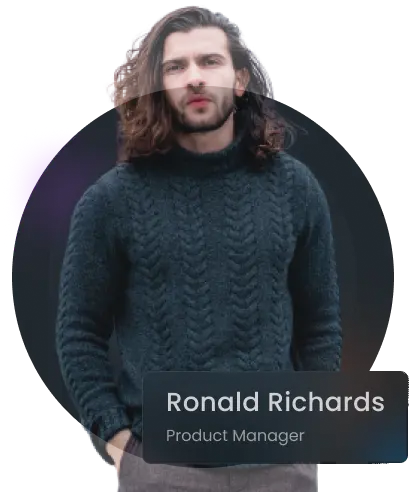
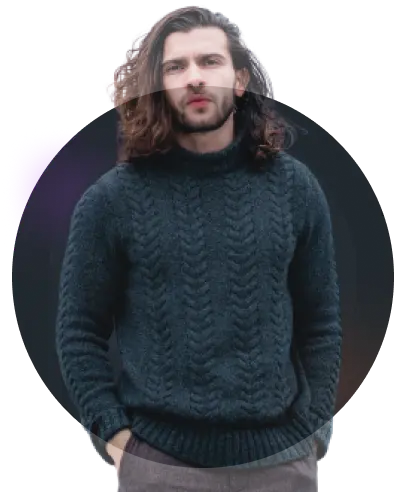
dshljsdkhfkjo

Changed region(s): [[0.3495, 0.7317, 1.0, 0.9451], [0.3495, 0.8841, 0.4078, 0.9451]]

diff --git a/index.html b/index.html
@@ -34,16 +34,18 @@
         </div>
         <div>
             <h1>Awesome tools for <br>Designer & Developer.</h1>
-            <p>Antool is a web collection of information on paid or <br> free Design and Development tools</p>
+            <p class="antool">Antool is a web collection of information on paid or <br> free Design and Development tools</p>
         </div>
         <div class="search">
             <form class="search-container">
                 <img src="./src/images/search.png" alt="search">
-                <input class="input-search" type="text" name="search" id="" placeholder="find more than 430+ tools..."
-                    autocomplete="off">
+                <input class="input-search" type="text" name="search" id="" placeholder="find more than 430+ tools..." autocomplete="off">
                 <button class="button-search">Search</button>
             </form>
         </div>
+            <div class="fon">
+                <img src="./src/images/background.webp" alt="background">
+            </div>
         <ul class="messenger">
             <li><a href="#"><img src="./src/images/group1.webp" alt="group1" width="58px"></a></li>
             <li><a href="#"><img src="./src/images/group2.webp" alt="group2" width="58px"></a></li>
@@ -151,7 +153,7 @@
                 <button class="explore-more">Explore more</button>
             </div>
             <div class="newcomer-container">
-                <div class=".newcomer-cards">
+                <div class="newcomer-cards">
                     <div class="card">
                         <img src="./src/images/zeplin.webp" alt="invision">
                         <h3>Zeplin</h3>
@@ -196,20 +198,31 @@
                             <a href="#" class="visit-button">Visit</a>
                         </div>
                     </div>
-                    <div class="person">
-                        <img src="./src/images/men.webp" alt="men">
-                        <span>Incididunt cillum do sint sint enim ullamco id deserunt mollit <br> qui reprehenderit do.
-                            Velit ex tempor
-                            cillum ad sint occaecat. <br> Do nulla velit labore occaecat do deserunt Lorem magna <br>
-                            officia
-                            incididunt consectetur amet. Sunt consectetur veniam <br> minim ex commodo sint non.
-                            Occaecat aute
-                            officia excepteur <br> non laboris id qui ad.</span>
-                    </div>
+                        <div class="person">
+                          <div class="person-photo">
+                            <img src="./src/images/men.webp" alt="men">
+                          </div>
+                          <div class="person-text">
+                            <p>
+                              Incididunt cillum do sint sint enim ullamco id deserunt mollit <br> qui reprehenderit do.
+                              Velit ex tempor cillum ad sint occaecat. <br> Do nulla velit labore occaecat do deserunt
+                              Lorem magna <br> officia incididunt consectetur amet. Sunt consectetur veniam <br> minim ex
+                              commodo sint non. Occaecat aute officia excepteur <br> non laboris id qui ad.
+                            </p>
+                          </div>
+                        </div>
+                        <img src="./src/images/line.webp" alt="line">
                     <div class="login">
-                        <h1>Become a contributor?</h1>
-                        <p>Join us and get tips & tricks to become a great Designer and Developer</p>
-                        <input type="text" name="" id="">
+                        <div>
+                            <h1 class="become">Become a contributor?</h1>
+                        </div>
+                        <div>
+                            <p class="join">Join us and get tips & tricks to become a great <br> Designer and Developer</p>
+                        </div>
+                        <form class="join-container">
+                            <input class="enter" name="Join Us" id="" placeholder="Enter your email..." autocomplete="off">
+                            <button class="join-us">Join Us</button>
+                        </form>
                     </div>
                 </div>
             </div>

diff --git a/style.css b/style.css
@@ -82,6 +82,12 @@ body {
   cursor: pointer;
 }
 
+.fon {
+  display: flex;
+  justify-content: end;
+
+}
+
 
 .explore-more:hover {
   background: #ff814c;
@@ -136,6 +142,9 @@ body {
 .tools {
   display: flex;
   justify-content: center;
+  text-align: center;
+  color: #FFFFFF8C;
+  line-height: 30px;
 }
 
 header {
@@ -326,5 +335,98 @@ footer {
 .newcomer-cards {
   display: grid;
   grid-template-columns: repeat(2, 1fr);
-  gap: 1.5rem;
+  gap: 20px;
 }
+
+.person {
+  display: flex;
+  justify-content: center;
+  align-items: center;
+  border-radius: 20px;
+  padding: 40px;
+  gap: 50px;
+  margin-top: 50px;
+  color: #fff;
+  position: relative;
+  width:849px;
+}
+
+.person-photo {
+  display: flex;
+  flex-direction: column;
+  align-items: center;
+  max-width: 300px;
+}
+
+.person-photo img {
+  width: 399px;
+  border-radius: 16px;
+}
+
+.person-text {
+ color:#FFFFFFC7 ;
+ font-weight: 400;
+ font-size: 14px;
+ line-height: 30px;
+}
+
+.become {
+  display: flex;
+  justify-content: center;
+}
+
+.join {
+  display:flex ;
+  justify-content: center;
+  color:#FFFFFF8C ;
+  line-height: 30px;
+  text-align: center;
+
+}
+
+.antool {
+  color: #FFFFFF8C;
+  line-height: 30px;
+}
+
+.join-container {
+  display: flex;
+  justify-content: center;
+  align-items: center;
+  background: #283036;
+  border: 1.5px;
+  border-radius: 15px;
+  padding: 8px 12px;  
+}
+
+.enter { 
+  width: 549px;
+  background: transparent;
+  border: none;
+  color: #FFFFFF;
+  font-size: 16px;
+  width: 100%;  
+}
+
+.join-us {
+  background: #ff6b2c;
+  color: #fff;
+  border: none;
+  padding: 10px 20px;
+  border-radius: 8px;
+  font-size: 16px;
+  cursor: pointer;  
+}
+
+
+
+
+
+
+
+
+
+
+
+
+
